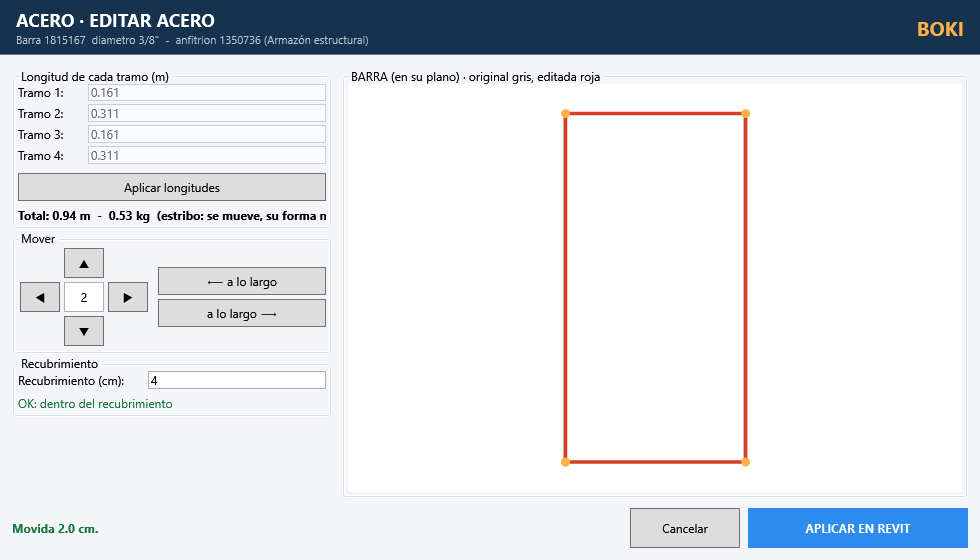
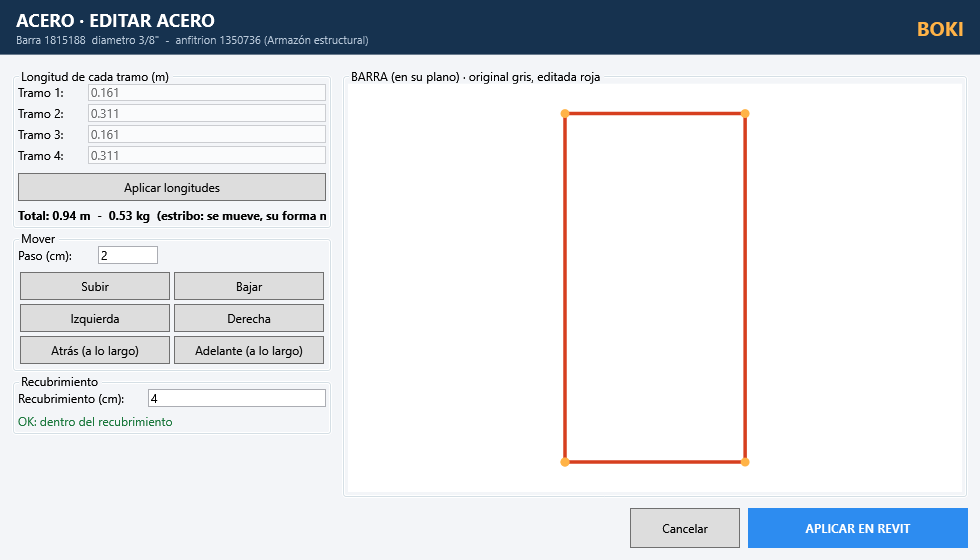
Editar Acero: move buttons with words (Subir, Bajar, Izquierda, Derecha, Atras, Adelante), no arrow glyphs

Changed region(s): [[0.0, 0.425, 0.3367, 0.7589], [0.0, 0.9411, 0.0918, 0.9714]]

diff --git a/BOKI Estructura.tab/Acero.panel/Editar Acero.pushbutton/EditarForm.xaml b/BOKI Estructura.tab/Acero.panel/Editar Acero.pushbutton/EditarForm.xaml
@@ -48,22 +48,20 @@
                             </StackPanel>
                         </GroupBox>
                         <GroupBox Header="Mover">
-                            <Grid>
-                                <Grid.ColumnDefinitions>
-                                    <ColumnDefinition Width="44"/><ColumnDefinition Width="44"/><ColumnDefinition Width="44"/><ColumnDefinition Width="*"/>
-                                </Grid.ColumnDefinitions>
-                                <Grid.RowDefinitions><RowDefinition Height="34"/><RowDefinition Height="34"/><RowDefinition Height="34"/></Grid.RowDefinitions>
-                                <Button Grid.Column="1" Grid.Row="0" Content="&#9650;" Margin="2" Tag="up" Click="move_click" ToolTip="Subir"/>
-                                <Button Grid.Column="0" Grid.Row="1" Content="&#9664;" Margin="2" Tag="left" Click="move_click" ToolTip="A un lado"/>
-                                <TextBox Grid.Column="1" Grid.Row="1" x:Name="txt_step" Text="2" Margin="2" VerticalContentAlignment="Center"
-                                         HorizontalContentAlignment="Center" ToolTip="Paso en cm"/>
-                                <Button Grid.Column="2" Grid.Row="1" Content="&#9654;" Margin="2" Tag="right" Click="move_click" ToolTip="Al otro lado"/>
-                                <Button Grid.Column="1" Grid.Row="2" Content="&#9660;" Margin="2" Tag="down" Click="move_click" ToolTip="Bajar"/>
-                                <StackPanel Grid.Column="3" Grid.RowSpan="3" Margin="8,0,0,0" VerticalAlignment="Center">
-                                    <Button Content="&#10229; a lo largo" Height="28" Tag="back" Click="move_click"/>
-                                    <Button Content="a lo largo &#10230;" Height="28" Margin="0,4,0,0" Tag="fwd" Click="move_click"/>
-                                </StackPanel>
-                            </Grid>
+                            <StackPanel>
+                                <DockPanel Margin="0,0,0,6">
+                                    <TextBlock Text="Paso (cm):" VerticalAlignment="Center" Width="80"/>
+                                    <TextBox x:Name="txt_step" Text="2" Width="60" HorizontalAlignment="Left"/>
+                                </DockPanel>
+                                <UniformGrid Columns="2">
+                                    <Button Content="Subir" Height="28" Margin="2" Tag="up" Click="move_click"/>
+                                    <Button Content="Bajar" Height="28" Margin="2" Tag="down" Click="move_click"/>
+                                    <Button Content="Izquierda" Height="28" Margin="2" Tag="left" Click="move_click"/>
+                                    <Button Content="Derecha" Height="28" Margin="2" Tag="right" Click="move_click"/>
+                                    <Button Content="Atr&#225;s (a lo largo)" Height="28" Margin="2" Tag="back" Click="move_click"/>
+                                    <Button Content="Adelante (a lo largo)" Height="28" Margin="2" Tag="fwd" Click="move_click"/>
+                                </UniformGrid>
+                            </StackPanel>
                         </GroupBox>
                         <GroupBox Header="Recubrimiento">
                             <StackPanel>
